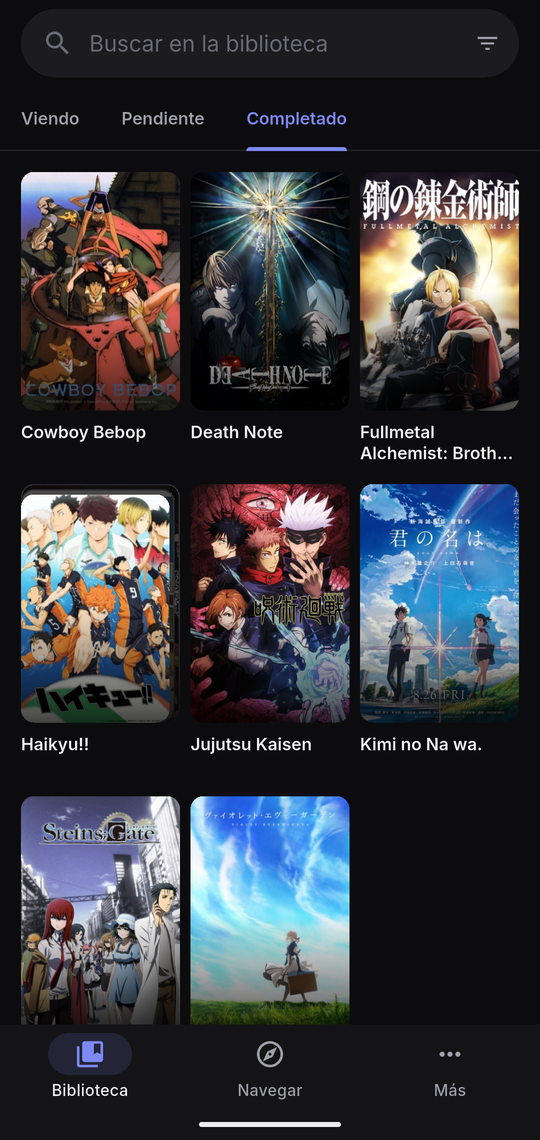
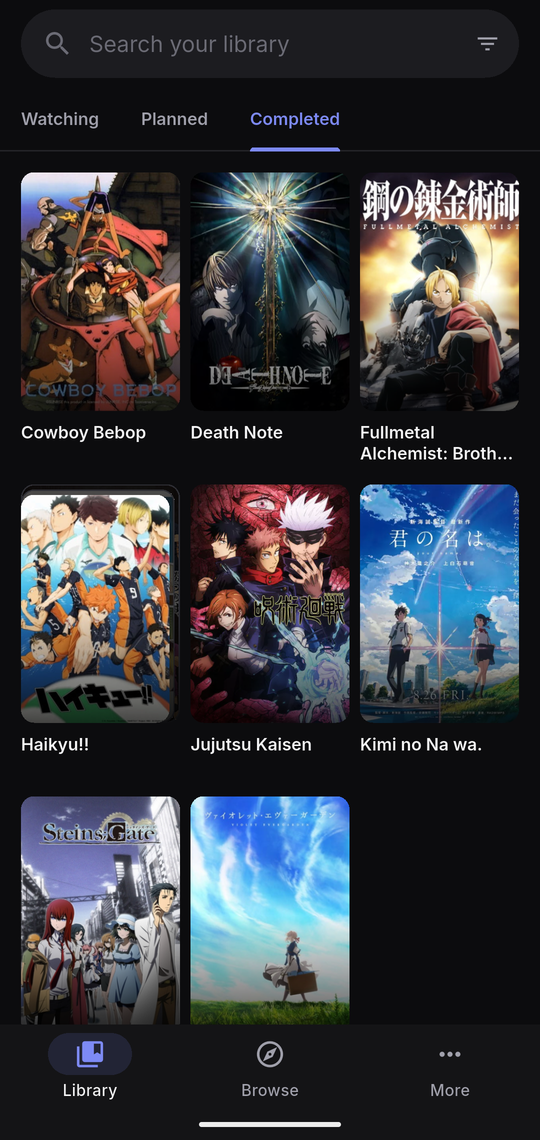
docs: document settings, theming and localization
The docs and README name the English menus, the import moves to
Settings, and DEVELOPMENT.md gains Localization and Theming sections.
The README screenshots are retaken in English.

Refs #21
Refs #22

diff --git a/docs/DEVELOPMENT.md b/docs/DEVELOPMENT.md
@@ -10,6 +10,8 @@
 | Library storage | SQLite through sqflite |
 | Metadata | MyAnimeList API v2 over plain `http`, public endpoints only |
 | Images | `cached_network_image` with a long-lived disk cache |
+| Localization | `flutter_localizations` and `intl`, generated from ARB files |
+| Preferences | `shared_preferences` |
 | Updates | GitHub Releases, installed with Android's `PackageInstaller` |
 
 ## Architecture
@@ -91,7 +93,7 @@ the migration step. The relation graph from MyAnimeList is cached separately in
 
 ## Import format
 
-*Más → Importar biblioteca* reads an `anihub-library` file:
+*More → Settings → Backup → Import library* reads an `anihub-library` file:
 
 ```json
 {
@@ -154,16 +156,16 @@ allows its name only to credit it as the source and forbids altering or
 translating its content. It also requires a privacy policy shown before
 installation ([PRIVACY.md](../PRIVACY.md)) and notifying MyAnimeList of
 releases with substantially new functionality ([RELEASING.md](RELEASING.md)).
-The app credits it in *Más → Acerca de*.
+The app credits it in *More → About*.
 
 ## Updates
 
-*Más → Acerca de → Buscar actualizaciones* checks for a newer release and a
-second tap installs it. Nothing is requested until the user taps.
+*More → About → Check for updates* checks for a newer release and a second
+tap installs it. Nothing is requested until the user taps.
 
 - `lib/infrastructure/github/` reads
   `GET /repos/AlvaroMunozS/AniHub/releases/latest`, which never returns drafts
-  or pre-releases. With *Recibir versiones preliminares* on, it reads
+  or pre-releases. With *Get pre-release versions* on, it reads
   `GET /releases?per_page=30` instead and picks the highest semantic version,
   skipping drafts and tags that are not versions.
 - A release must have exactly one `.apk` asset with a `sha256:` `digest`,
@@ -204,13 +206,20 @@ second tap installs it. Nothing is requested until the user taps.
   makes no request the user did not expect and needs no background work.
 - **Long image cache.** A MyAnimeList cover URL always serves the same file, so
   images are cached for a year (up to 3000 files) and load offline.
+  *More → Settings → Storage* shows its size and clears it.
+- **Preferences without a port.** Theme, accent and language are UI state:
+  notifiers in `lib/ui/state/settings_providers.dart` read and write
+  `SharedPreferences` directly.
 - **Few dependencies.** UUIDs come from a small helper over `Random.secure()`
   instead of a package. New dependencies need a clear reason.
 
 ## Code style
 
 - Identifiers, comments, documentation and commits are in English. User-facing
-  strings are in Spanish.
+  strings live in the ARB files (see [Localization](#localization)), never as
+  literals in `lib/ui`.
+- Colors come from the theme (see [Theming](#theming)), never as literals
+  outside `lib/ui/theme`.
 - Comments explain *why*: a constraint, an edge case or a platform quirk. They
   do not restate the code or narrate its history; that belongs in git.
 - Doc comments follow [Effective Dart](https://dart.dev/effective-dart/documentation):
@@ -220,6 +229,31 @@ second tap installs it. Nothing is requested until the user taps.
 - Test names describe behavior: `'rejects the file when an entry is invalid'`.
 - No dead code, debug output, swallowed errors or speculative abstractions.
 - Commits follow [Conventional Commits](https://www.conventionalcommits.org/).
+
+## Localization
+
+The app is in Spanish and English. Strings live in `lib/l10n/app_es.arb`, the
+template, and `lib/l10n/app_en.arb`. `flutter pub get` generates
+`lib/l10n/app_localizations*.dart`, which is git-ignored.
+
+- To add a string, add the key to both files and read it with
+  `context.l10n.<key>`. Keys are lowerCamelCase with the screen as prefix:
+  `aboutCheckForUpdates`, `storageImageCache`. Add an `@<key>` description
+  only when the context is not obvious.
+- Counts use ICU plurals and values use placeholders, never concatenation.
+- The language is the one picked in *Appearance*, or else the first device
+  language with a translation, in any regional variant; anything else falls
+  back to English (`resolveAppLocale` in `lib/ui/locale_resolution.dart`).
+- Data from MyAnimeList (titles, synopses, genres) is never translated.
+
+## Theming
+
+`buildTheme` in `lib/ui/theme/app_theme.dart` builds the light, dark and pure
+black themes from an `AppPalette` and an `AppAccent`. Widgets read colors with
+`context.palette` or the `ColorScheme`, so they follow the theme without
+knowing which one is active. Only `AppOverlays`, drawn over cover art, is the
+same in every theme. Each accent keeps a 3:1 contrast against the surfaces of
+every theme, checked by `test/ui/theme/accents_test.dart`.
 
 ## App icon
 

diff --git a/README.md b/README.md
@@ -23,7 +23,7 @@ AniHub keeps track of the anime you are watching, plan to watch and have
 completed. There is no account and no server: the library is stored on the
 device.
 
-The app is currently available in Spanish only.
+The app is available in Spanish and English.
 
 ## Features
 
@@ -34,7 +34,9 @@ The app is currently available in Spanish only.
 - Anime details with synopsis, genres, studio, season, prequel and sequel.
 - Catalog search powered by [MyAnimeList](https://myanimelist.net).
 - The library works offline, and cover images are cached on the device.
-- Library import from an `anihub-library` JSON file
+- Light, dark and pure black themes, with a choice of accent color.
+- Settings for the theme, the app language and the image cache.
+- Library import from an `anihub-library` JSON file in *Settings → Backup*
   ([format](docs/DEVELOPMENT.md#import-format)).
 
 AniHub deliberately has no scores, reviews, episode counters or statistics.
@@ -45,7 +47,7 @@ See the [project scope](CONTRIBUTING.md#scope).
 Read the [privacy policy](PRIVACY.md) before installing, then download the APK
 from the [latest release](https://github.com/AlvaroMunozS/AniHub/releases/latest).
 New versions install over the previous one and keep the library. To update,
-open *Más → Acerca de* and tap *Buscar actualizaciones*.
+open *More → About* and tap *Check for updates*.
 Requires Android 7.0 or later.
 
 AniHub has no backup or export of its own. If Android backup is enabled on

diff --git a/PRIVACY.md b/PRIVACY.md
@@ -20,8 +20,8 @@ client id, and are handled under
 Covers of an imported library are loaded from the addresses in the imported
 file.
 
-The app connects to GitHub only when you tap *Buscar actualizaciones* in
-*Más → Acerca de*, or install the update it finds:
+The app connects to GitHub only when you tap *Check for updates* in
+*More → About*, or install the update it finds:
 
 - `api.github.com`, to look up the latest release;
 - `github.com` and `release-assets.githubusercontent.com`, to download its
@@ -30,7 +30,7 @@ The app connects to GitHub only when you tap *Buscar actualizaciones* in
 These requests include the device's IP address and a user agent naming AniHub,
 and are handled under
 [GitHub's privacy statement](https://docs.github.com/site-policy/privacy-policies/github-general-privacy-statement).
-The links in *Acerca de* open in your browser.
+The links in *About* open in your browser.
 
 ## Data on the device
 

diff --git a/CLAUDE.md b/CLAUDE.md
@@ -14,7 +14,9 @@ are in [docs/DEVELOPMENT.md](docs/DEVELOPMENT.md). The release process is in
   adapters. Adapters are wired only in `lib/main.dart`.
 - Changing a port in `lib/domain/ports/` or adding, removing or upgrading a
   dependency in `pubspec.yaml` needs the maintainer's agreement first.
-- Everything is in English except user-facing strings, which are in Spanish.
+- Everything is in English. User-facing strings live in `lib/l10n/*.arb`,
+  with Spanish as the template and English as the translation; `lib/ui` has
+  no literal strings.
 - Follow the code style in `docs/DEVELOPMENT.md`. A comment explains why, not
   what, and never tells the history of the code.
 - `dart format lib test`, `flutter analyze` (no issues) and `flutter test`

diff --git a/CHANGELOG.md b/CHANGELOG.md
@@ -6,6 +6,16 @@ All notable changes to AniHub are documented here. The format follows
 
 ## [Unreleased]
 
+### Added
+
+- *Settings* in *More*, where you can pick a light, dark or system theme, pure black for OLED screens and an accent color.
+- The app is available in English, and follows the device language unless you pick one in *Settings → Appearance*.
+- The size of the image cache in *Settings → Storage*, where you can also clear it.
+
+### Changed
+
+- *Import library* moves to *Settings → Backup*.
+
 ## [1.1.0] - 2026-09-23
 
 ### Added
